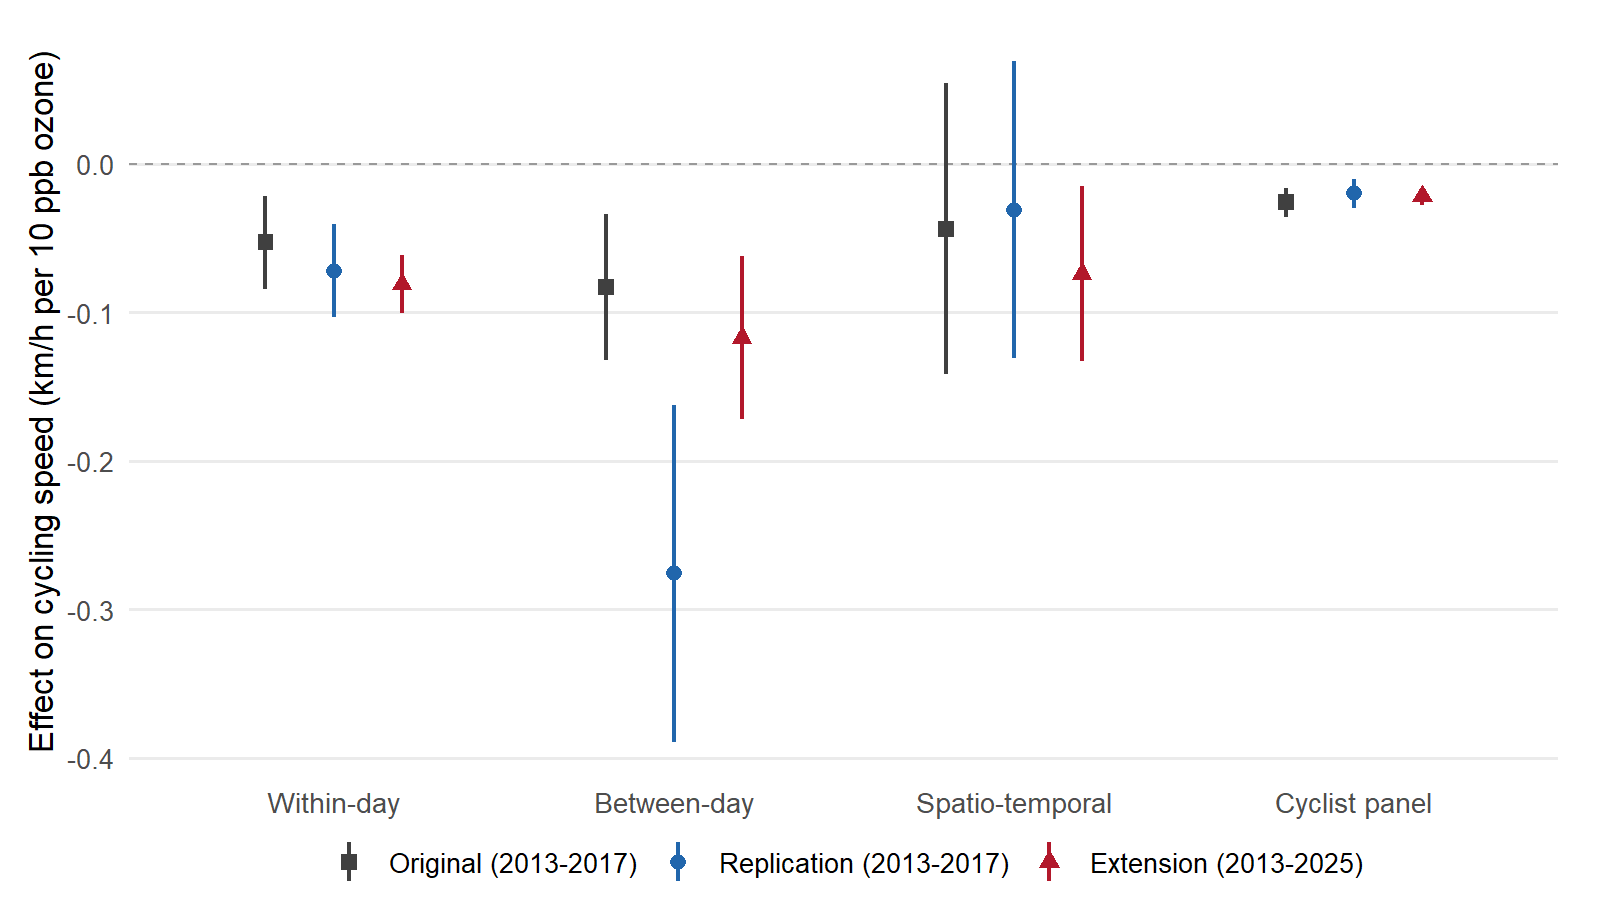
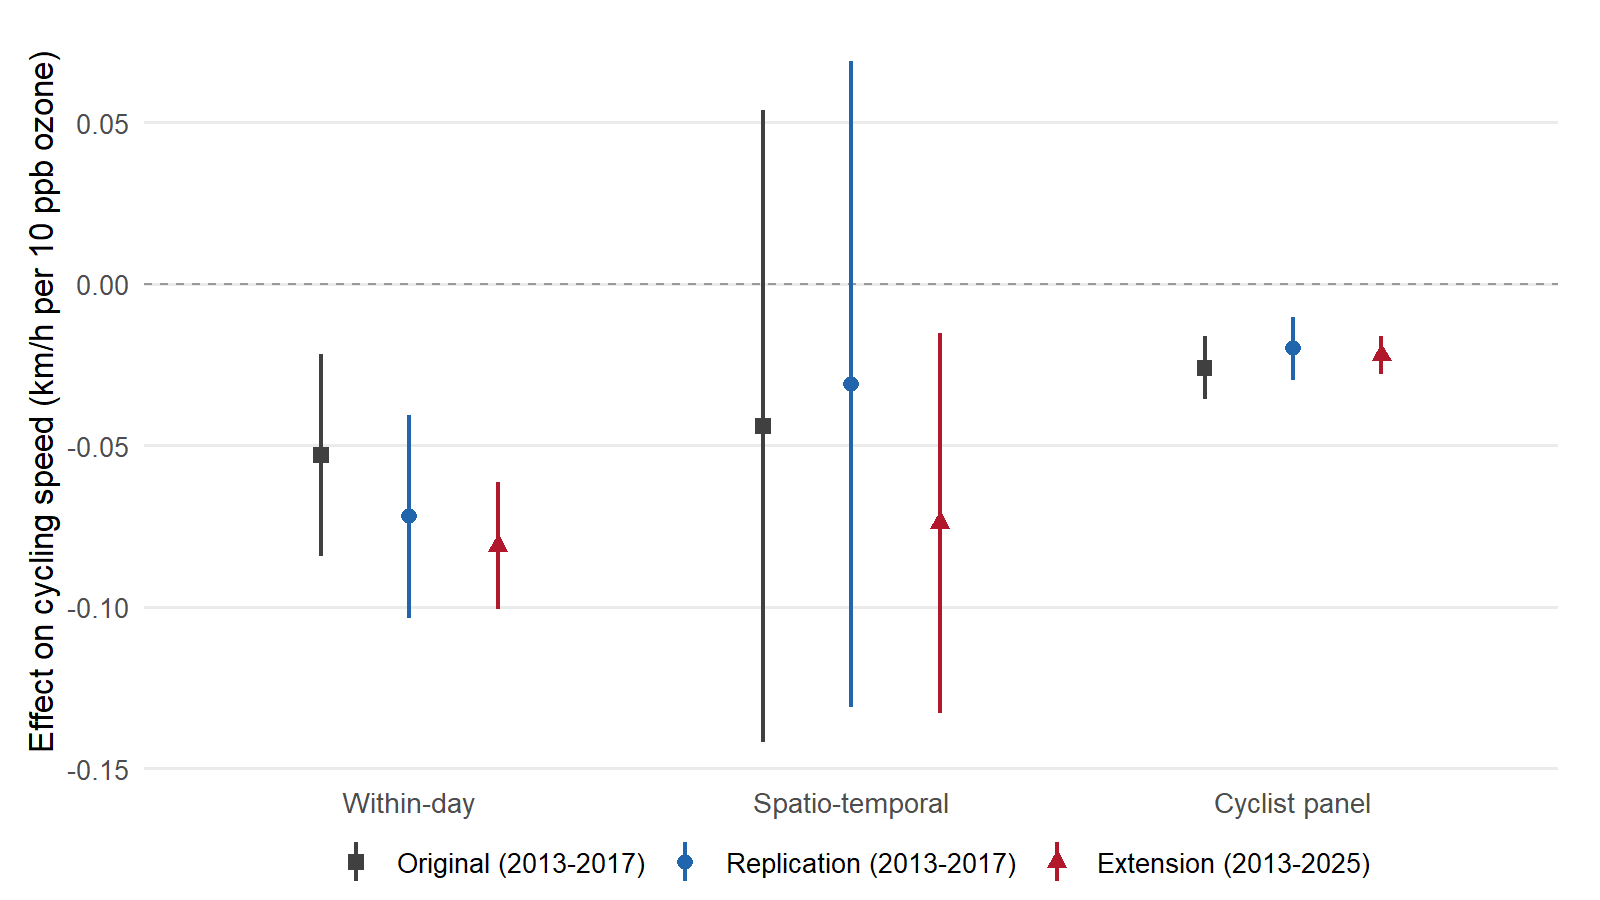
Add abstract, non-linearity figure, and remove between-day from comparison
- Expanded README with paper abstract and detailed results discussion
- Removed between-day from comparison figure (missing traffic controls)
- Added note explaining why between-day is omitted
- New non-linearity figure comparing ozone 5ppb dummies across
  original, replication, and extension samples
- New script R/14_nonlinearity_figure.R

diff --git a/README.md b/README.md
@@ -4,20 +4,19 @@ Replication and extension of [Klingen & van Ommeren (2020)](https://doi.org/10.1
 
 ## Paper
 
-The original study estimates the effect of ozone on cycling speed using 42 million London bike-share trips (2013--2017). This repository replicates the analysis and extends the sample to 108 million trips through 2025.
-
 > Klingen, J. and van Ommeren, J.N. (2020). Air pollution and physical effort: Evidence from cyclists in London. *Regional Science and Urban Economics*, 81, 103504.
 
-## Overview
+**Abstract.** We replicate and extend Klingen & van Ommeren (2020), who found that a 10 ppb increase in ozone reduces cycling speed by 0.3--0.4% using 42 million London bike-share trips (2013--2017). Extending the sample to 108 million trips through 2025, we confirm a negative ozone--speed relationship across all four identification strategies (within-day, between-day, spatio-temporal, cyclist panel). Point estimates in the extended and post-2017 samples are at least as large as in the original period, indicating that the effect has not diminished despite substantial changes in London's air quality and cycling landscape---including COVID-19, the Ultra Low Emission Zone expansion, and major cycling infrastructure investments.
 
-Four identification strategies — exploiting within-day, between-day, spatio-temporal, and within-cyclist variation — consistently show that ozone reduces cycling speed. The table below compares the original estimates to our replication and the extended sample.
+## Results
+
+Three identification strategies --- exploiting within-day, spatio-temporal, and within-cyclist variation --- consistently show that ozone reduces cycling speed. The table below compares the original estimates to our replication and the extended sample.
 
 **Effect of ozone on cycling speed (km/h per 10 ppb)**
 
 | Identification strategy | Original (2013--2017) | Replication (2013--2017) | Extension (2013--2025) |
 |---|:---:|:---:|:---:|
 | Within-day | -0.053\*\*\* | -0.072\*\*\* | -0.081\*\*\* |
-| Between-day | -0.083\*\*\* | -0.276\*\*\* | -0.117\*\*\* |
 | Spatio-temporal | -0.044 | -0.031 | -0.074\*\* |
 | Cyclist panel | -0.026\*\*\* | -0.020\*\*\* | -0.022\*\*\* |
 
@@ -27,9 +26,15 @@ Four identification strategies — exploiting within-day, between-day, spatio-te
   <img src="output/figures/comparison_coefficients.png" width="700" alt="Coefficient comparison across estimation strategies">
 </p>
 
-The core finding is confirmed: a 10 ppb increase in ozone reduces average cycling speed by 0.02--0.08 km/h, depending on the identification strategy. Estimates from the extended sample are broadly consistent with the original, and the panel estimates — which control for individual cyclist heterogeneity — are particularly stable across time periods.
+The core finding is confirmed: a 10 ppb increase in ozone reduces average cycling speed by 0.02--0.08 km/h, depending on the identification strategy. Estimates from the extended sample are broadly consistent with the original, and the panel estimates --- which control for individual cyclist heterogeneity --- are particularly stable across time periods.
 
-The between-day replication differs from the original, likely because of differences in car traffic controls (the original used automatic traffic counter data that are no longer publicly available). Weather data also differ: the original used Met Office observations while this replication uses Open-Meteo.
+The between-day strategy is omitted from this comparison because it relies on car traffic controls from automatic traffic counters that are no longer publicly available. Without these controls, the between-day replication produces a substantially larger coefficient (-0.276 vs. the original -0.083), likely reflecting omitted variable bias from traffic congestion. The within-day and panel strategies are less affected because day fixed effects and cyclist fixed effects, respectively, absorb most traffic-related confounding.
+
+The figure below shows the non-linear ozone--speed relationship using 5 ppb ozone bin indicators. All three series display a roughly linear decline, with effects becoming visible around 15--20 ppb --- consistent with the original finding that the threshold is well below regulatory standards. The original coefficients are from the cyclist panel specification; the replication and extension use the within-day specification, which yields larger point estimates.
+
+<p align="center">
+  <img src="output/figures/nonlinearity_comparison.png" width="700" alt="Non-linear ozone effects on cycling speed">
+</p>
 
 ## Data
 
@@ -75,6 +80,7 @@ Rscript R/11a_panel_build.R
 Rscript R/11b_panel_estimate.R
 Rscript R/12_robustness.R
 Rscript R/13_comparison_figure.R
+Rscript R/14_nonlinearity_figure.R
 ```
 
 Results are written to `output/tables/` and `output/figures/`.
